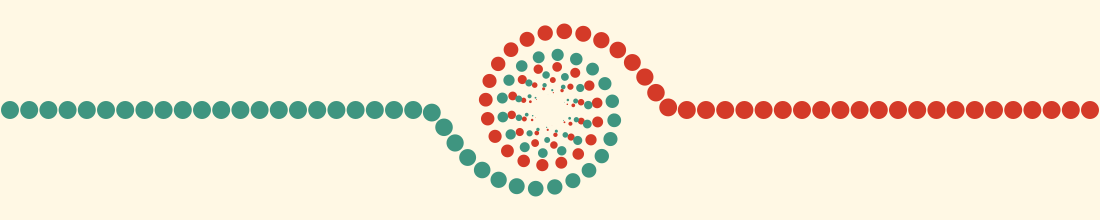
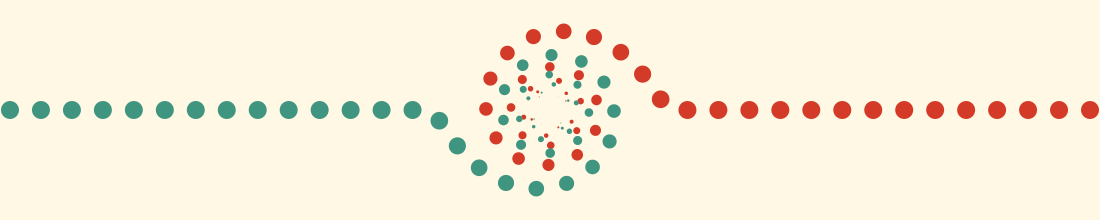
frontpage updates, substack subscribe and refs

Changed region(s): [[0.0, 0.1091, 0.9891, 0.9]]

diff --git a/_sass/minima/custom-styles.scss b/_sass/minima/custom-styles.scss
@@ -133,6 +133,26 @@ img.centered {
   margin-right: auto;
 }
 
+.substack-subscribe {
+  margin: 2.5em auto 1em;
+  padding: 1.25em 1.25em 0.75em;
+  max-width: 520px;
+  text-align: center;
+  border-top: 1px solid rgba(128, 128, 128, 0.25);
+  border-bottom: 1px solid rgba(128, 128, 128, 0.25);
+}
+
+.substack-subscribe-note {
+  margin: 0 0 0.75em;
+  font-size: 0.95em;
+  font-style: italic;
+}
+
+.substack-subscribe iframe {
+  display: block;
+  margin: 0 auto;
+}
+
 .admon {
  background-color: $admon-background-color;
  padding: 20px; 

diff --git a/_includes/substack-subscribe.html b/_includes/substack-subscribe.html
@@ -1,0 +1,13 @@
+<div class="substack-subscribe">
+  <p class="substack-subscribe-note">
+    {%- if include.note -%}
+      {{ include.note }}
+    {%- else -%}
+      I've started cross-posting these on Substack — subscribe there to get new posts in your inbox: <a href="https://ronakrm.substack.com">ronakrm.substack.com</a>.
+    {%- endif -%}
+  </p>
+  <iframe src="https://ronakrm.substack.com/embed?transparent=1"
+          width="480" height="150"
+          style="border: 0; background: transparent; max-width: 100%;"
+          frameborder="0" scrolling="no"></iframe>
+</div>

diff --git a/_layouts/post.html b/_layouts/post.html
@@ -36,6 +36,8 @@ layout: base
     {{ content }}
   </div>
 
+  {%- include substack-subscribe.html -%}
+
   {%- if site.disqus.shortname -%}
     {%- include disqus_comments.html -%}
   {%- endif -%}

diff --git a/_data/substack_junk/header_v2.tex b/_data/substack_junk/header_v2.tex
@@ -1,0 +1,86 @@
+% Substack header — v2.  Foreach-based reproduction of v1 (header.tex).
+% Compile: ./build.sh header_v2.tex
+%
+% Spiral terminates at the true center (0,0).
+% Knobs:
+%   \rOuter        radius where line meets spiral
+%   \turnsTotal    full turns of the spiral
+%   \canvasEdge    outermost x of the horizontal line
+%   \dotSpacing    cm between line dots         (controls line density)
+%   \NdotsSpiral   dots on the spiral           (controls spiral density)
+%   \dotRad        full dot radius              (line + first spiral dot)
+%   \leftYSign     -1 = galaxy (180° rotation), +1 = yin-yang
+%
+% Spiral path: r(t) = rOuter*(1-t)²   — quadratic decay, reaches 0 at t=1
+%              θ(t) = thetamax*t²     — smooth tangent at t=0 (joins line)
+% Size fade:   ds   = dotRad*(1-t)    — linear; last dot has size 0 at origin
+
+\documentclass[tikz,border=0pt]{standalone}
+\usepackage{tikz}
+\usepackage{xcolor}
+
+% Palette
+\definecolor{leftc}{HTML}{3F9580}     % green, teal-leaning
+\definecolor{rightc}{HTML}{D43A28}    % burnt orange, red-leaning
+\definecolor{bgc}{HTML}{FFF8E4}       % cream / parchment
+
+\begin{document}
+\begin{tikzpicture}[x=1cm,y=1cm]
+  \useasboundingbox (-5.5,-1.1) rectangle (5.5,1.1);
+  \fill[bgc] (-5.5,-1.1) rectangle (5.5,1.1);
+
+  % ============================================================
+  %                       PARAMETERS
+  % ============================================================
+  \def\rOuter{1.25}
+  \def\turnsTotal{5.0}
+  \def\canvasEdge{5.40}
+
+  \def\dotSpacing{0.30}     % cm between line dots
+  \def\NdotsSpiral{50}      % dots on the spiral
+  \def\dotRad{0.09}
+
+  \def\leftYSign{-1}
+
+  % ============================================================
+  %                       DERIVED
+  % ============================================================
+  \pgfmathsetmacro{\thetamaxDeg}{360*\turnsTotal}
+  \pgfmathsetmacro{\lineLen}{\canvasEdge - \rOuter}
+  \pgfmathtruncatemacro{\Nline}{\lineLen/\dotSpacing + 1}
+  \pgfmathtruncatemacro{\NspiralMax}{\NdotsSpiral - 1}
+
+  % ============================================================
+  %                       RIGHT ARM (orange)
+  % ============================================================
+  \foreach \i in {1,...,\Nline} {
+    \pgfmathsetmacro{\xx}{\canvasEdge - (\i-1)*\dotSpacing}
+    \fill[rightc] (\xx, 0) circle (\dotRad cm);
+  }
+  \foreach \i in {0,...,\NspiralMax} {
+    \pgfmathsetmacro{\tt}{\i/\NspiralMax}
+    \pgfmathsetmacro{\onemt}{1-\tt}
+    \pgfmathsetmacro{\rr}{\rOuter*\onemt*\onemt}
+    \pgfmathsetmacro{\angd}{\thetamaxDeg*\tt*\tt}
+    \pgfmathsetmacro{\ds}{\dotRad*\onemt}
+    \fill[rightc] ({\rr*cos(\angd)}, {\rr*sin(\angd)}) circle (\ds cm);
+  }
+
+  % ============================================================
+  %                       LEFT ARM (green) — mirrored
+  % ============================================================
+  \foreach \i in {1,...,\Nline} {
+    \pgfmathsetmacro{\xx}{-\canvasEdge + (\i-1)*\dotSpacing}
+    \fill[leftc] (\xx, 0) circle (\dotRad cm);
+  }
+  \foreach \i in {0,...,\NspiralMax} {
+    \pgfmathsetmacro{\tt}{\i/\NspiralMax}
+    \pgfmathsetmacro{\onemt}{1-\tt}
+    \pgfmathsetmacro{\rr}{\rOuter*\onemt*\onemt}
+    \pgfmathsetmacro{\angd}{\thetamaxDeg*\tt*\tt}
+    \pgfmathsetmacro{\ds}{\dotRad*\onemt}
+    \fill[leftc] ({-\rr*cos(\angd)}, {\leftYSign*\rr*sin(\angd)}) circle (\ds cm);
+  }
+
+\end{tikzpicture}
+\end{document}

diff --git a/index.md b/index.md
@@ -26,16 +26,26 @@ permalink: /
 
 <br/>
 
-I'm currently working on <a href="https://coordinal.org/">accelerating and automating AI alignment and safety research</a>.
+My dissertation research focused on methods for efficiently identifying important subsets of features, parameters, and samples in modern ML settings.
+I've worked on some assorted alignment research projects, and more recently a startup for research automation.
 
-My dissertation research focused on methods for efficiently identifying important subsets of features, parameters, and samples
-in modern ML settings. Current and future interests for me revolve around
-applying some of these ideas to interpretability and safety, and more broadly
-exploring issues around alignment. I'm currently working on a couple
-of projects in the guaranteed-safe and provably-safe AI space, stay tuned!
+I occasionally write some <a href="/blog/">blog posts</a>, technical and otherwise. Future ones will also be on <a href="https://ronakrm.substack.com">my substack</a>, if you prefer that.
 
-I occasionally write some <a href="/blog/">blog posts</a>, technical and otherwise.
+<div class="row">
+    <div class="col col-md-8 ml-md-auto mr-md-auto">
+        <h1>Latest Posts</h1>
+        {%- assign num_posts = 1 -%}
+        {%- for post in site.posts limit: num_posts -%}
+            <h3 style="margin-bottom: 5px;">
+                <a class="post-link" href="{{ post.url | relative_url }}">{{ post.title }}</a>
+            </h3>
+            <p class="post-meta" style="margin-bottom: 10px;">{{ post.date | date: "%b %-d, %Y" }}</p>
+            <p>{{ post.excerpt | strip_html }}</p>
+        {%- endfor -%}
+    </div>
+</div>
 
+<!--
 <div class="row">
     <div class="col col-md-8 ml-md-auto mr-md-auto">
         <h2>Recent News</h2>
@@ -48,3 +58,4 @@ I occasionally write some <a href="/blog/">blog posts</a>, technical and otherwi
         </div>
     </div>
 </div>
+-->

diff --git a/blog.md b/blog.md
@@ -10,8 +10,8 @@ some more math-y/machine learning stuff.
 If you have ways in which these can be improved
 for clarity or accessibility please let me know!
 I reserve the right to edit and update these at any point in the future.
-<!-- :[things can move fast](/_drafts/for-me/things-that-used-to-matter.md).-->
-Maybe I'll add some cute GitHub last commit link and preview for each post.
+
+{% include substack-subscribe.html note="I've also started putting these on Substack, so you can subscribe there if you want to get updates without having to check here: <a href='https://ronakrm.substack.com'>ronakrm.substack.com</a>" %}
 
 <h2 class="post-list-heading">Math-y, More Formal Posts</h2>
 <!-- <p>More technical stuff about math, machine learning, ways of thinking about complex topics, etc.</p> -->